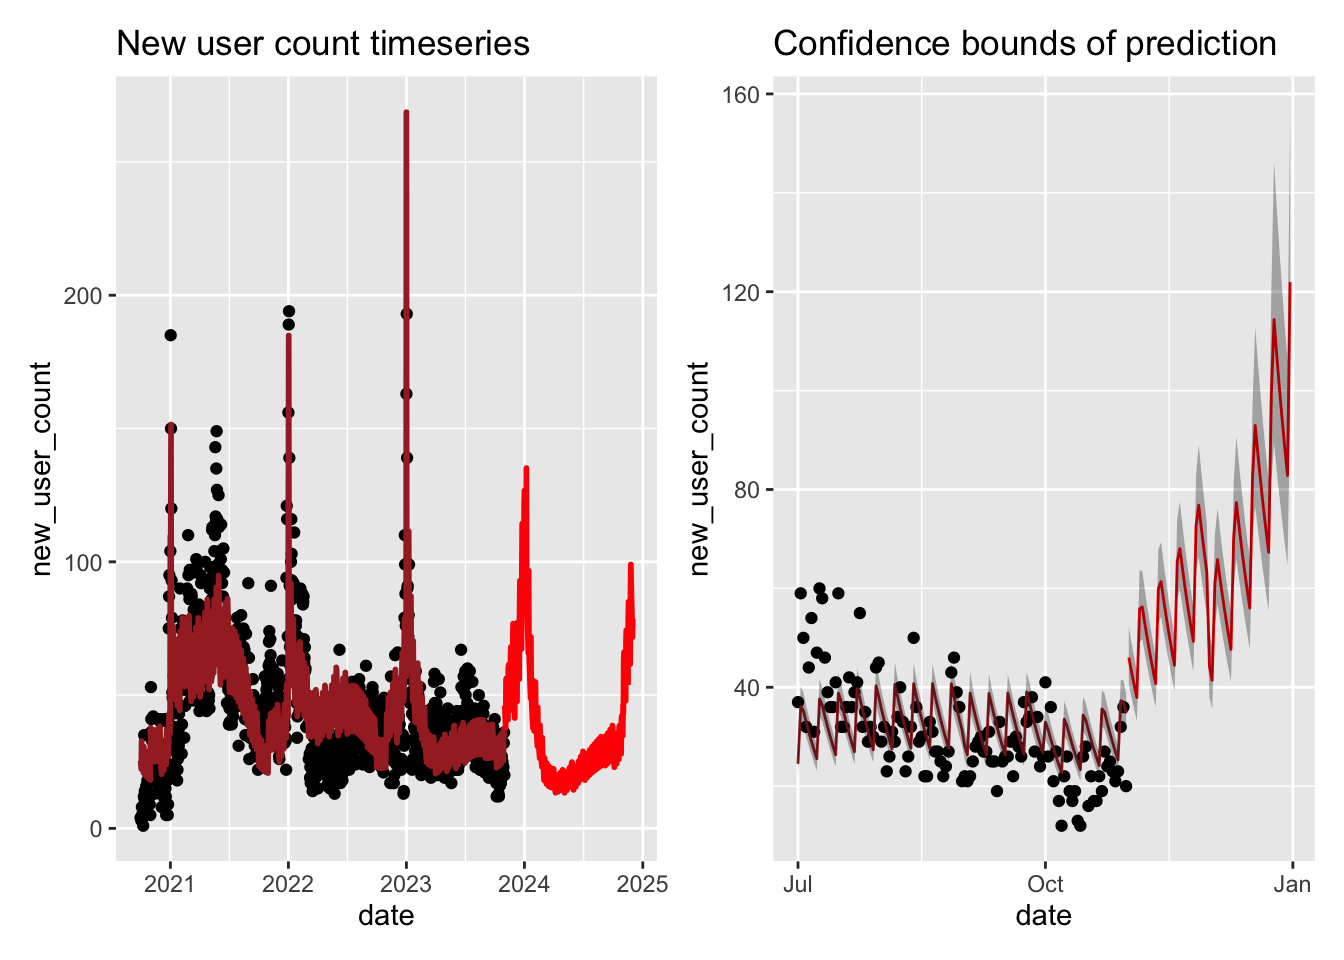
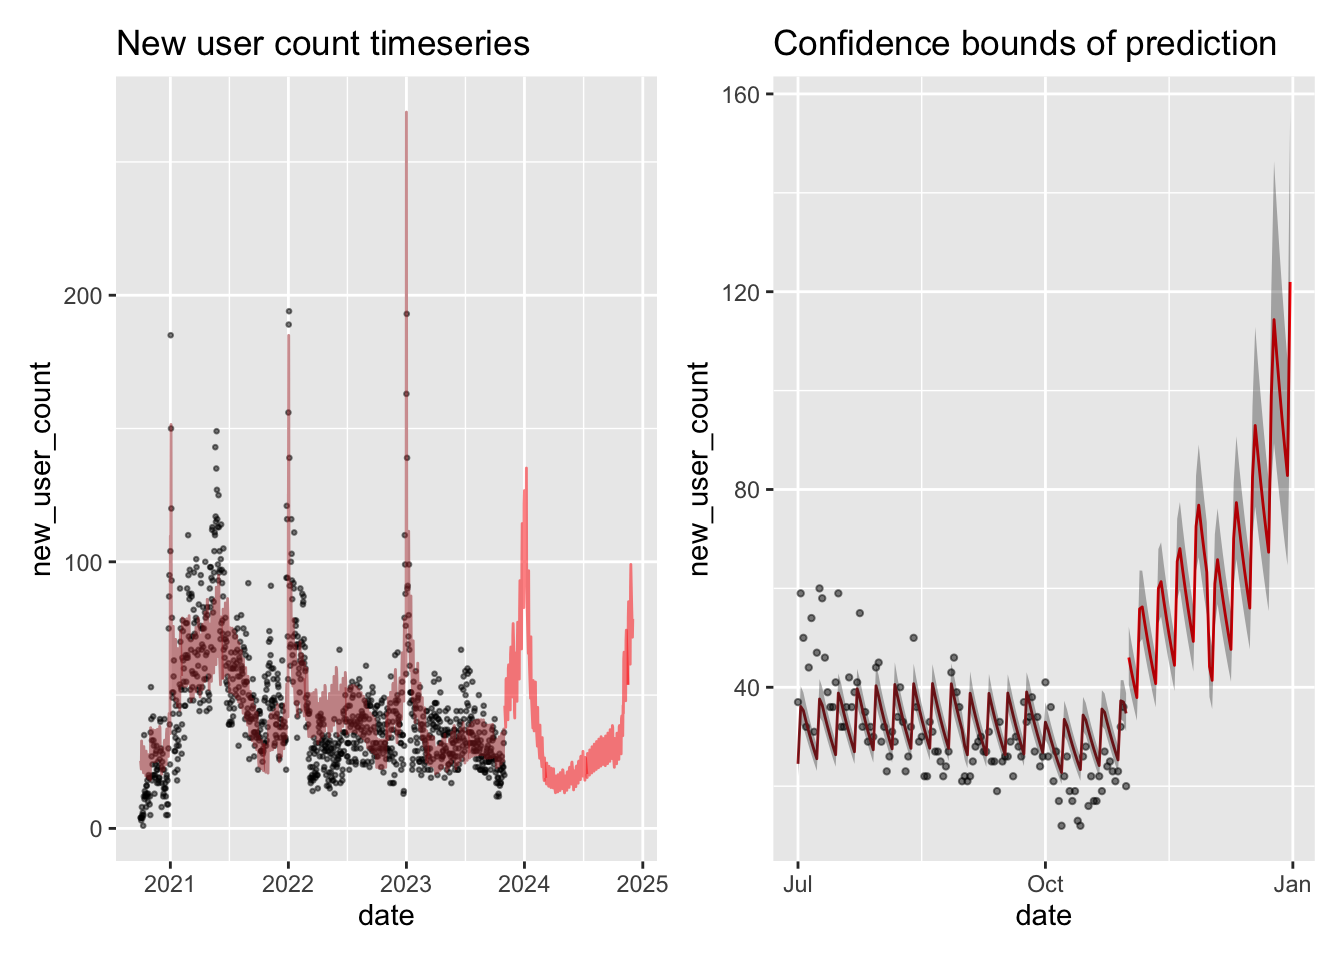
readable plot by changing opacity and sizes

Changed region(s): [[0.0938, 0.125, 0.5, 0.875], [0.5938, 0.5938, 0.8438, 0.875], [0.6562, 0.6562, 0.6875, 0.6875]]

diff --git a/docs/index.html b/docs/index.html
@@ -206,7 +206,7 @@ window.Quarto = {
     </div>
 </div>
 <div class="list quarto-listing-default">
-<div class="quarto-post image-right" data-index="0" data-categories="analysis,code,markov-chain" data-listing-date-sort="1734480000000" data-listing-file-modified-sort="1734994352773" data-listing-date-modified-sort="NaN" data-listing-reading-time-sort="7" data-listing-word-count-sort="1343">
+<div class="quarto-post image-right" data-index="0" data-categories="analysis,code,markov-chain" data-listing-date-sort="1734480000000" data-listing-file-modified-sort="1734994761181" data-listing-date-modified-sort="NaN" data-listing-reading-time-sort="7" data-listing-word-count-sort="1343">
 <div class="thumbnail">
 <p><a href="./posts/user_behaviour_analysis/index.html" class="no-external"></a></p><a href="./posts/user_behaviour_analysis/index.html" class="no-external">
 <p class="card-img-top"><img src="posts/user_behaviour_analysis/states.png"  class="thumbnail-image card-img"/></p>
